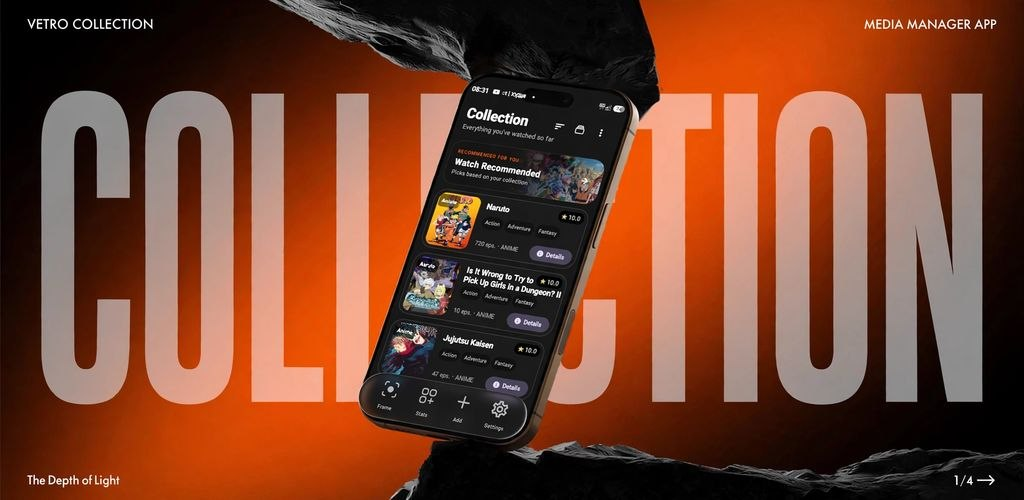
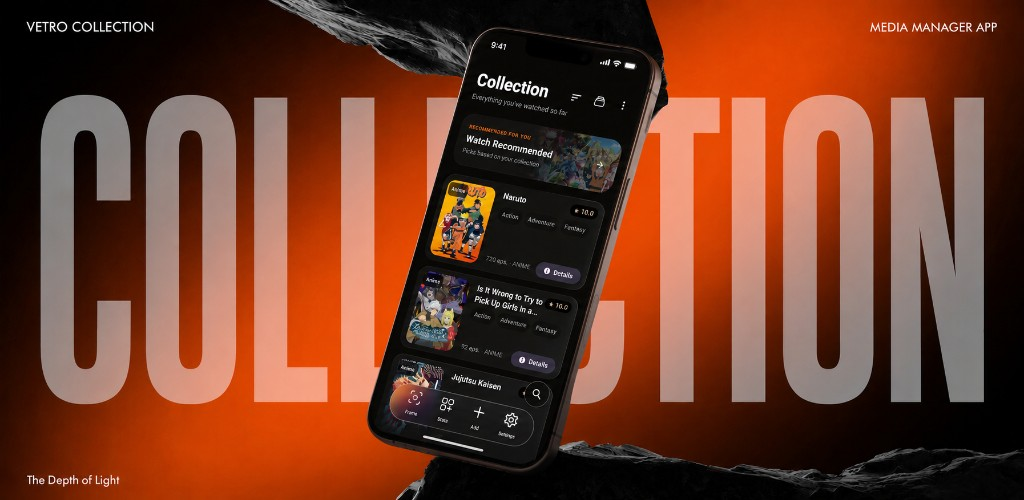
huge update

diff --git a/core/network/src/main/java/com/example/myapplication/network/VetroApiService.kt b/core/network/src/main/java/com/example/myapplication/network/VetroApiService.kt
@@ -30,7 +30,15 @@ class VetroApiService(
 
     private val json = Json { ignoreUnknownKeys = true }
 
-    override suspend fun fetchDetails(title: String, language: AppLanguage, isManga: Boolean, apiId: String?): Result<AnimeDetails?> {
+    override suspend fun fetchDetails(
+        title: String,
+        language: AppLanguage,
+        isManga: Boolean,
+        apiId: String?,
+        malId: Int?,
+        anilistId: Int?,
+        titleEn: String?,
+    ): Result<AnimeDetails?> {
         return runCatching {
             heavyRate.acquire()
             if (isManga) {
@@ -48,16 +56,41 @@ class VetroApiService(
                         ?: aniList.fetchAnimeDetails(query).getOrNull()
                 }
             } else {
-                val query = title.trim()
                 when (language) {
-                    AppLanguage.EN -> aniList.fetchAnimeDetails(query).getOrNull()
-                        ?: shikimori.fetchAnimeDetails(query).getOrNull()
-                    AppLanguage.RU -> shikimori.fetchAnimeDetails(query).getOrNull()
-                        ?: aniList.fetchAnimeDetails(query).getOrNull()
+                    AppLanguage.EN -> fetchAnimeDetailsEn(anilistId, malId, titleEn)
+                    AppLanguage.RU -> fetchAnimeDetailsRu(title.trim())
                 }
             }
         }
     }
+
+    /**
+     * EN-режим: AniList id → MAL id (AniList/Jikan) → английское название.
+     * Без fallback на Shikimori по русскому display-title.
+     */
+    private suspend fun fetchAnimeDetailsEn(
+        anilistId: Int?,
+        malId: Int?,
+        titleEn: String?,
+    ): AnimeDetails? {
+        anilistId?.let { id ->
+            aniList.mediaByAnilistId(id).getOrNull()?.toAnimeDetails()?.let { return it }
+        }
+        malId?.let { id ->
+            enrichTitlesByIds(null, id).getOrNull()?.anilistId?.let { aid ->
+                aniList.mediaByAnilistId(aid).getOrNull()?.toAnimeDetails()?.let { return it }
+            }
+            malById(id, AppLanguage.EN).getOrNull()?.toAnimeDetails()?.let { return it }
+        }
+        titleEn?.trim()?.takeIf { it.isNotEmpty() }?.let { en ->
+            aniList.fetchAnimeDetails(en).getOrNull()?.let { return it }
+        }
+        return null
+    }
+
+    private suspend fun fetchAnimeDetailsRu(query: String): AnimeDetails? =
+        shikimori.fetchAnimeDetails(query).getOrNull()
+            ?: aniList.fetchAnimeDetails(query).getOrNull()
 
     override suspend fun findTotalEpisodes(
         title: String,

diff --git a/app/src/main/java/com/example/myapplication/ui/details/DetailsScreen.kt b/app/src/main/java/com/example/myapplication/ui/details/DetailsScreen.kt
@@ -374,6 +374,29 @@ private fun DetailsBody(
                         }
                     }
 
+                    is DetailsUiState.MissingEnglishTitle -> {
+                        Row(
+                            verticalAlignment = Alignment.Top,
+                            horizontalArrangement = Arrangement.spacedBy(8.dp),
+                        ) {
+                            Icon(
+                                Icons.Default.ErrorOutline,
+                                contentDescription = null,
+                                tint = onCardMuted,
+                                modifier = Modifier.size(20.dp),
+                            )
+                            Text(
+                                text = if (language == AppLanguage.RU) {
+                                    "Описание недоступно. Добавьте английское название или привяжите MAL/AniList id для более точной загрузки."
+                                } else {
+                                    "Description unavailable. Add an English title or link a MAL/AniList id for accurate loading."
+                                },
+                                style = MaterialTheme.typography.bodyMedium.copy(fontFamily = SnProFamily),
+                                color = onCardMuted,
+                            )
+                        }
+                    }
+
                     is DetailsUiState.Success -> {
                         val descText = details?.description?.takeIf { it.isNotBlank() && it != "null" }
                         if (descText != null) {

diff --git a/app/src/main/java/com/example/myapplication/ui/details/DetailsViewModel.kt b/app/src/main/java/com/example/myapplication/ui/details/DetailsViewModel.kt
@@ -55,13 +55,32 @@ class DetailsViewModel(
 
     private fun loadDetails(anime: Anime, language: AppLanguage) {
         viewModelScope.launch {
+            if (
+                language == AppLanguage.EN &&
+                anime.mediaType != com.example.myapplication.data.models.MediaType.MANGA &&
+                anime.anilistId == null &&
+                anime.malId == null &&
+                anime.titleEn.isNullOrBlank()
+            ) {
+                _uiState.value = DetailsUiState.MissingEnglishTitle
+                return@launch
+            }
+
             _uiState.value = DetailsUiState.Loading
             val startTime = System.currentTimeMillis()
 
+            val lookupTitle = when (language) {
+                AppLanguage.RU -> anime.titleRu?.takeIf { it.isNotBlank() } ?: anime.title
+                AppLanguage.EN -> anime.titleEn?.takeIf { it.isNotBlank() } ?: anime.title
+            }
+
             repository.fetchDetails(
-                title = anime.title,
+                title = lookupTitle,
                 language = language,
-                isManga = anime.mediaType == com.example.myapplication.data.models.MediaType.MANGA
+                isManga = anime.mediaType == com.example.myapplication.data.models.MediaType.MANGA,
+                malId = anime.malId,
+                anilistId = anime.anilistId,
+                titleEn = anime.titleEn,
             )
                 .fold(
                     onSuccess = { details ->

diff --git a/app/src/main/java/com/example/myapplication/data/repository/AnimeRepository.kt b/app/src/main/java/com/example/myapplication/data/repository/AnimeRepository.kt
@@ -92,8 +92,16 @@ class AnimeRepository(
         return updated
     }
 
-    suspend fun fetchDetails(title: String, language: AppLanguage, isManga: Boolean = false, apiId: String? = null): Result<AnimeDetails?> {
-        return apiService.fetchDetails(title, language, isManga, apiId)
+    suspend fun fetchDetails(
+        title: String,
+        language: AppLanguage,
+        isManga: Boolean = false,
+        apiId: String? = null,
+        malId: Int? = null,
+        anilistId: Int? = null,
+        titleEn: String? = null,
+    ): Result<AnimeDetails?> {
+        return apiService.fetchDetails(title, language, isManga, apiId, malId, anilistId, titleEn)
     }
 
     suspend fun findTotalEpisodes(

diff --git a/core/network/src/main/java/com/example/myapplication/network/ApiService.kt b/core/network/src/main/java/com/example/myapplication/network/ApiService.kt
@@ -4,7 +4,15 @@ package com.example.myapplication.network
  * Network API contract. All methods return Result for idiomatic Kotlin error handling.
  */
 interface ApiService {
-    suspend fun fetchDetails(title: String, language: AppLanguage, isManga: Boolean = false, apiId: String? = null): Result<AnimeDetails?>
+    suspend fun fetchDetails(
+        title: String,
+        language: AppLanguage,
+        isManga: Boolean = false,
+        apiId: String? = null,
+        malId: Int? = null,
+        anilistId: Int? = null,
+        titleEn: String? = null,
+    ): Result<AnimeDetails?>
     suspend fun findTotalEpisodes(
         title: String,
         categoryType: String,

diff --git a/core/network/src/main/java/com/example/myapplication/network/AnimeDetails.kt b/core/network/src/main/java/com/example/myapplication/network/AnimeDetails.kt
@@ -15,3 +15,18 @@ data class AnimeDetails(
     val source: String,
     val airedOn: String? = null
 )
+
+fun ApiSearchResult.toAnimeDetails(): AnimeDetails = AnimeDetails(
+    title = title,
+    altTitle = altTitle,
+    description = description,
+    type = type,
+    status = "",
+    episodesAired = episodes,
+    episodesTotal = episodes.takeIf { it > 0 },
+    nextEpisode = null,
+    genres = genres,
+    rating = rating,
+    posterUrl = posterUrl,
+    source = source,
+)

diff --git a/app/src/main/java/com/example/myapplication/ui/details/DetailsUiState.kt b/app/src/main/java/com/example/myapplication/ui/details/DetailsUiState.kt
@@ -10,4 +10,6 @@ sealed class DetailsUiState {
     object Loading : DetailsUiState()
     data class Success(val details: AnimeDetails) : DetailsUiState()
     object Error : DetailsUiState()
+    /** EN-режим: нет malId/anilistId и нет titleEn — описание не запрашиваем. */
+    object MissingEnglishTitle : DetailsUiState()
 }

diff --git a/README.md b/README.md
@@ -7,8 +7,63 @@ Anime · Manga · Manhwa · Movies · TV Shows · Anything structured
 
 Kotlin · Compose · Ktor · Koin · Supabase · SQLDelight
 
-**Latest release: v3.3.2-Beta** · Latest stable: v3.3.1-Stable
+**Latest release: v3.3.2-Beta** · Latest stable: v3.3.1-Stable  
 See [Releases](https://github.com/Phnem/Vetro/releases) for the full changelog history.
+
+> **v3.3.2-Beta** — a major visual overhaul: new color system, redesigned rating mechanics, expanded AI capabilities, and significant improvements to synchronization and the overall user experience.
+
+---
+
+## 🧪 What's New in v3.3.2-Beta
+
+### 🎨 Visual Refresh
+
+- Completely redesigned application color palette with improved contrast and readability
+- More consistent appearance across light and dark themes, aligned with **The Depth of Light**
+- Enhanced liquid glass rendering — refined translucency, lighting, depth, and visual layering
+- Completely redesigned startup splash screen with smoother launch and updated branding
+
+### ⭐ Rating System
+
+- Replaced the previous **1–5** scale with a precise **0.0–10.0** rating system
+- Fully redesigned rating controls in Add and Edit screens for a faster, more intuitive workflow
+
+### 🤖 AI & BYOK
+
+- Completely redesigned **Bring Your Own Key** panel in Settings — choose your provider, keep full control of your API keys
+
+Supported providers and default models:
+
+| Provider | Default model | Vision |
+|---|---|---|
+| **OpenAI** | GPT-5 Mini | ✓ |
+| **Anthropic** | Claude Haiku 4.5 | ✓ |
+| **Google Gemini** | Gemini 3.1 Flash Lite | ✓ |
+| **DeepSeek** | DeepSeek V4 Flash | Text only |
+| **Groq** | GPT-OSS 120B | ✓ |
+| **OpenRouter** | OpenAI GPT-5 Mini | ✓ |
+| **Cohere** | Command A Vision 07-2025 | ✓ |
+
+- **Title Translation Engine** — Settings → Developer Settings; generates localized titles for existing entries (better recommendations, search, and metadata consistency)
+- **AI Statistics Analysis** — redesigned Statistics screen with AI-powered insights based on your collection and viewing history
+
+### 🔄 Synchronization
+
+- Redesigned **Connection Center** for AniList, MyAnimeList, and Shikimori
+- Improved synchronization reliability and optimized database repair system
+- Fixed an issue where genres were not being saved correctly
+
+### ✨ Recommendations & Interaction
+
+- Dedicated **Recommendations** section to discover related content within the app
+- Completely redesigned **pull-to-refresh** — smoother animations, more responsive interaction, improved visual consistency
+
+### 🐛 Fixes & Improvements
+
+- Fixed multiple issues affecting the bottom navigation dock
+- Fixed search button behavior
+- Improved switch animations in Settings
+- General UI polish and stability improvements
 
 ---
 
@@ -30,7 +85,17 @@ Originally built as an anime tracker, it's evolving into a universal media colle
 
 ## 📸 Screenshots
 
-[![Screenshot 1](https://github.com/Phnem/Vetro/raw/main/images/1.png)](https://github.com/Phnem/Vetro/blob/main/images/1.png) [![Screenshot 2](https://github.com/Phnem/Vetro/raw/main/images/2.png)](https://github.com/Phnem/Vetro/blob/main/images/2.png) [![Screenshot 3](https://github.com/Phnem/Vetro/raw/main/images/3.png)](https://github.com/Phnem/Vetro/blob/main/images/3.png) [![Screenshot 4](https://github.com/Phnem/Vetro/raw/main/images/4.png)](https://github.com/Phnem/Vetro/blob/main/images/4.png) [![Screenshot 5](https://github.com/Phnem/Vetro/raw/main/images/5.png)](https://github.com/Phnem/Vetro/blob/main/images/5.png)
+<table>
+  <tr>
+    <td align="center"><a href="https://github.com/Phnem/Vetro/blob/main/images/4.png"><img src="https://github.com/Phnem/Vetro/raw/main/images/4.png" width="280" alt="Screenshot 4"/></a></td>
+    <td align="center"><a href="https://github.com/Phnem/Vetro/blob/main/images/2.png"><img src="https://github.com/Phnem/Vetro/raw/main/images/2.png" width="280" alt="Screenshot 2"/></a></td>
+    <td align="center"><a href="https://github.com/Phnem/Vetro/blob/main/images/3.png"><img src="https://github.com/Phnem/Vetro/raw/main/images/3.png" width="280" alt="Screenshot 3"/></a></td>
+  </tr>
+  <tr>
+    <td align="center"><a href="https://github.com/Phnem/Vetro/blob/main/images/1.png"><img src="https://github.com/Phnem/Vetro/raw/main/images/1.png" width="280" alt="Screenshot 1"/></a></td>
+    <td align="center"><a href="https://github.com/Phnem/Vetro/blob/main/images/5.png"><img src="https://github.com/Phnem/Vetro/raw/main/images/5.png" width="280" alt="Screenshot 5"/></a></td>
+  </tr>
+</table>
 
 *Click any image to view full resolution*
 
@@ -96,12 +161,13 @@ Workflow: upload a frame → detect title → add directly to library → metada
 
 ### 💡 Recommendations
 
-A dedicated Recommendations section surfaces new anime, manga, and shows to discover based on your existing collection.
+A dedicated Recommendations section surfaces new anime, manga, and shows to discover based on your existing collection — directly within the app.
 
-### 🎭 Digital Sarcasm System
+### 🎭 Statistics & AI Insights
 
 - Context-aware sarcasm engine with 600+ dynamic phrases in Statistics
 - Reacts to your taste — judges it, or supports your optimism
+- **AI Statistics Analysis** (v3.3.2+): intelligent insights and personalized observations based on your collection and viewing history
 
 ---
 
@@ -112,7 +178,9 @@ A dedicated Recommendations section surfaces new anime, manga, and shows to disc
 - Optional **Email + Password** login with a permanent password
 - Dedicated account settings screen to view auth status and manage your linked cloud account
 
-No embedded API keys ship with the app — bring your own key for AI-powered features like image recognition, keeping usage transparent and abuse-resistant.
+No embedded API keys ship with the app — bring your own key for AI-powered features.
+
+The redesigned **BYOK panel** in Settings supports OpenAI, Anthropic, Google Gemini, DeepSeek, Groq, OpenRouter, and Cohere — each with sensible default models for vision and text tasks. Usage stays transparent and abuse-resistant because you supply and control your own keys.
 
 ---
 
@@ -132,12 +200,11 @@ Primary providers:
 Fallback provider:
 - Jikan API (automatic fallback improves reliability when a primary provider is unavailable)
 
-- Redesigned connection screens for AniList, MyAnimeList, and Shikimori
+- Redesigned **Connection Center** for AniList, MyAnimeList, and Shikimori
 - Import / Export / Sync workflows to move libraries in and out of Vetro
 - Dynamic sync status badge that updates in real time
 - Unified genre database shared consistently between anime and manga
-
-⚠ **Known issue:** genre synchronization is currently incomplete. Developer Settings → **Repair Database** restores missing genres, covers, and metadata as a temporary workaround; a full synchronization fix is planned for a future release.
+- Improved synchronization reliability; genre saving issues addressed in v3.3.2-Beta
 
 ---
 
@@ -151,13 +218,17 @@ Fallback provider:
 - Completely redesigned bottom navigation dock
 - New primary typeface for improved readability
 - New color palette with refined accents, consistent across light and dark themes
+- Enhanced liquid glass effects — improved translucency, lighting, and depth
+- Completely redesigned startup splash screen
+- Redesigned pull-to-refresh with smoother animations and more responsive interaction
 - Tile-based genre system, unified across Add / Edit / Sorting
 
 ---
 
 ## 🛠 Developer Tools
 
-- **Repair Database**: recovers missing genres, cover images, metadata, and sync artifacts after an interrupted sync or incomplete import
+- **Repair Database**: recovers missing genres, cover images, metadata, and sync artifacts after an interrupted sync or incomplete import (optimized in v3.3.2-Beta)
+- **Title Translation Engine**: Settings → Developer Settings — auto-generates localized titles for existing media entries
 - Developer option to toggle adaptive blur rendering
 - Database Import
 - PDF export (shareable, readable tables)
